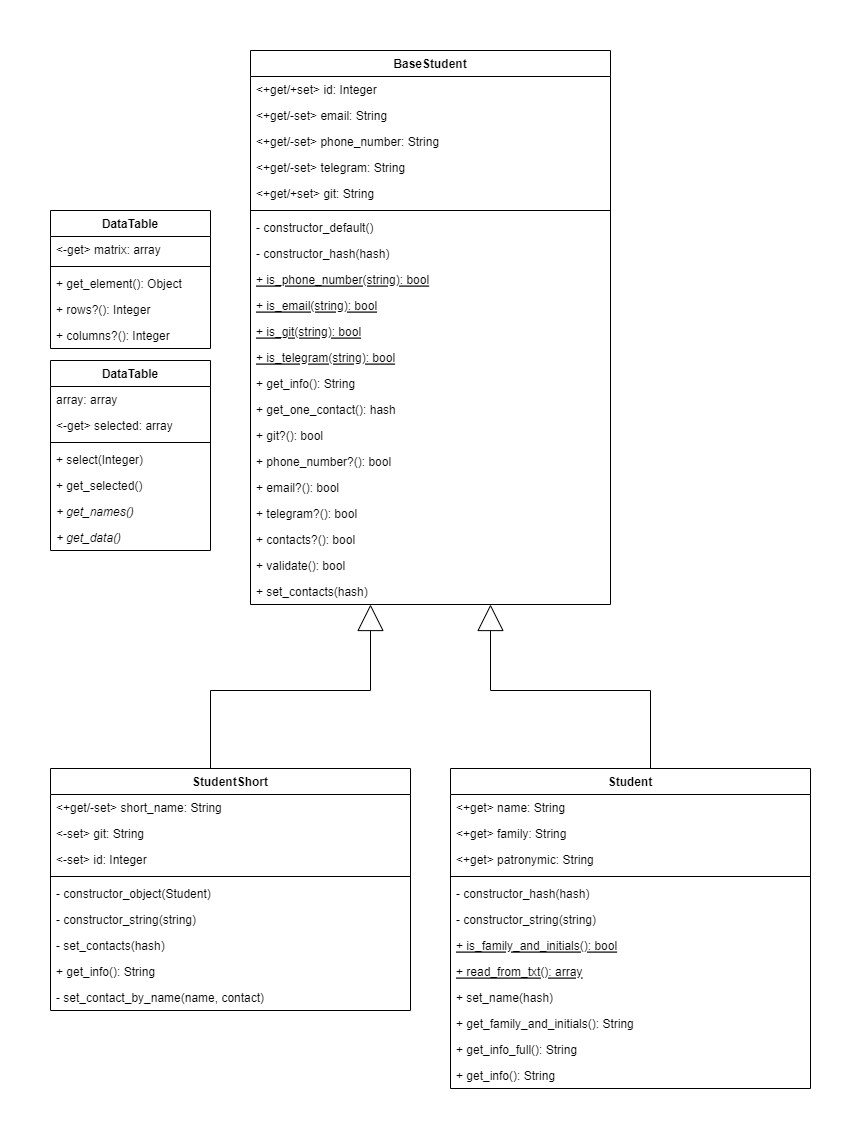
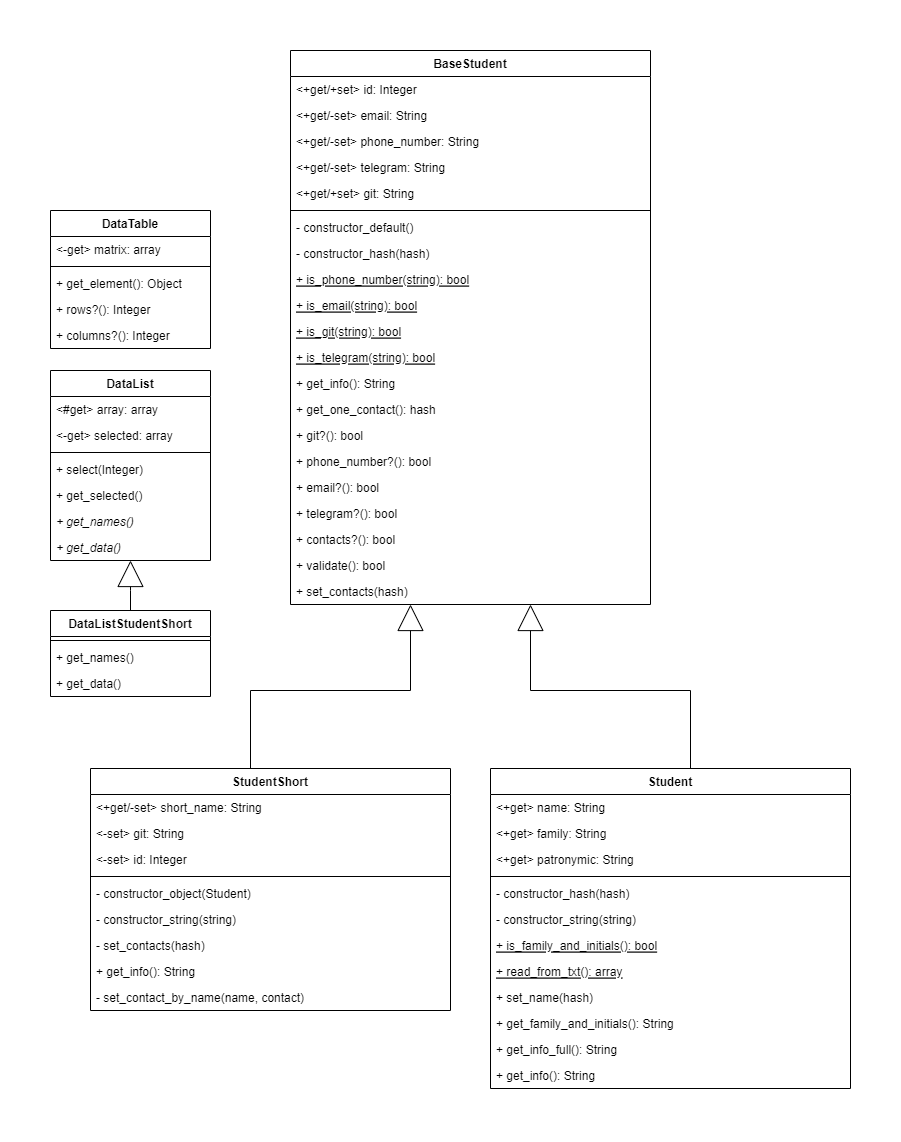
Лаб.3 Здч.3-5 DataListStudentShort
Переопределены "get_names" и "get_data", в родителе геттер для "array" стал protected.

diff --git a/lab2/main.rb b/lab2/main.rb
@@ -2,6 +2,7 @@ require_relative "student.rb"
 require_relative "student_short.rb"
 require_relative "data_table.rb"
 require_relative "data_list.rb"
+require_relative "data_list_student_short.rb"
 
 #object1 = Student.new(hash:{id:0, name:"Arbux", family:"Alebarod", patronymic:"Achekavich", phone_number:"+79189356731", email:"address@mail.sd", telegram:"@ahto_ahaha", git:"https://github.com/CyBeR_uSeR"})
 #object2 = Student.new(hash:{id:1, name:"Ti", family: "Prikki", patronymic:"Noitaich", email:"my_bestEmail3@cybermail.gog", git:"gitlab.com/stellAr"})
@@ -17,9 +18,16 @@ require_relative "data_list.rb"
 #puts object3.get_info()
 #puts object4.get_info()
 
-#students = Student.read_from_txt("students.txt")
+students = Student.read_from_txt("students.txt")
+students_short = []
 
-#students.each { |obj| puts obj.get_info }
+students.each { |obj| students_short.push(StudentShort.new(object:obj)) }
+
+dlss = DataListStudentShort.new(students_short)
+
+dt = dlss.get_data()
+
+puts dt.get_element(1, 1)
 
 #Student.write_to_txt("file.txt", students)
 
@@ -40,8 +48,8 @@ require_relative "data_list.rb"
 #table = DataTable.new(matrix)
 #puts table.columns?
 
-array = [1,2,3,4,5]
-list = DataList.new(array)
-list.select(1)
-list.select(3)
-puts list.get_selected()
+#array = [1,2,3,4,5]
+#list = DataList.new(array)
+#list.select(1)
+#list.select(3)
+#puts list.get_selected()

diff --git a/lab2/data_list_student_short.rb b/lab2/data_list_student_short.rb
@@ -1,0 +1,20 @@
+require_relative "data_list.rb"
+require_relative "student_short.rb"
+require_relative "data_table.rb"
+
+class DataListStudentShort < DataList
+	
+	def get_names()
+		return ["Short name", "Git", "Contact"]
+	end
+	
+	def get_data()
+		matrix = []
+		index = 0
+		self.array.each { |item|
+			matrix.push( [index] + item.get_info().split(';')[1..-1] )
+			index += 1
+		}
+		return DataTable.new(matrix)
+	end
+end

diff --git a/lab2/data_list.rb b/lab2/data_list.rb
@@ -28,6 +28,11 @@ class DataList
 		raise NotImplementedError.new "Calling abstract method" # kinda abstract method
 	end
 	
+	### OBJECT PROTECTED METHODS
+	protected
+	
+	attr_reader :array
+	
 	### OBJECT PRIVATE METHODS
 	private
 	
